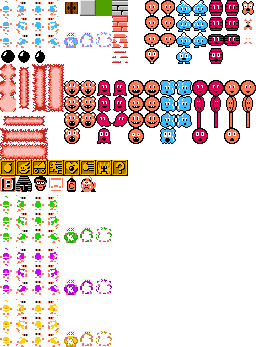
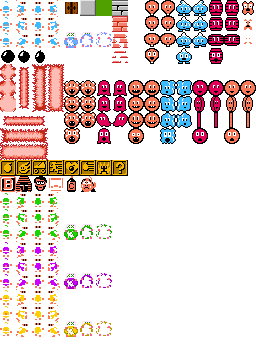
added sprites for the rest of the players

Changed region(s): [[0.0, 0.5476, 0.4375, 1.0]]

diff --git a/src/com/bomberman/graphics/Sprite.java b/src/com/bomberman/graphics/Sprite.java
@@ -8,16 +8,15 @@ public class Sprite {
 	
 	private static final int TILE_PIXELS = 16;
 	
-	
 	public static Image brick = SPRITE_SHEET.image.getSubimage(7 * TILE_PIXELS, 0, 16, 16);
 	public static Image wall = SPRITE_SHEET.image.getSubimage(5 * TILE_PIXELS, 0, 16, 16);
-	
 	
 	/*
 	|--------------------------------------------------------------------------
 	| Player Sprites
 	|--------------------------------------------------------------------------
 	 */
+	
 	public static Image player_blue_up = SPRITE_SHEET.image.getSubimage(0, 0, 12, 16);
 	public static Image player_blue_down = SPRITE_SHEET.image.getSubimage(2 * TILE_PIXELS, 0, 12, 15);
 	public static Image player_blue_left = SPRITE_SHEET.image.getSubimage(3 * TILE_PIXELS, 0, 10, 15);
@@ -60,12 +59,54 @@ public class Sprite {
 	public static Image player_green_dead2 = SPRITE_SHEET.image.getSubimage(5 * TILE_PIXELS, 14 * TILE_PIXELS, 13, 15);
 	public static Image player_green_dead3 = SPRITE_SHEET.image.getSubimage(6 * TILE_PIXELS, 14 * TILE_PIXELS, 16, 16);
 	
+	public static Image player_violet_up = SPRITE_SHEET.image.getSubimage(0, 15 * TILE_PIXELS, 12, 16);
+	public static Image player_violet_down = SPRITE_SHEET.image.getSubimage(2 * TILE_PIXELS, 15 * TILE_PIXELS, 12, 15);
+	public static Image player_violet_left = SPRITE_SHEET.image.getSubimage(3 * TILE_PIXELS, 15 * TILE_PIXELS, 10, 15);
+	public static Image player_violet_right = SPRITE_SHEET.image.getSubimage(1 * TILE_PIXELS, 15 * TILE_PIXELS, 10, 16);
+	
+	public static Image player_violet_up_1 = SPRITE_SHEET.image.getSubimage(0 * TILE_PIXELS, 16 * TILE_PIXELS, 12, 16);
+	public static Image player_violet_up_2 = SPRITE_SHEET.image.getSubimage(0 * TILE_PIXELS, 17 * TILE_PIXELS, 12, 15);
+	
+	public static Image player_violet_down_1 = SPRITE_SHEET.image.getSubimage(2 * TILE_PIXELS, 16 * TILE_PIXELS, 12, 15);
+	public static Image player_violet_down_2 = SPRITE_SHEET.image.getSubimage(2 * TILE_PIXELS, 17 * TILE_PIXELS, 12, 16);
+	
+	public static Image player_violet_left_1 = SPRITE_SHEET.image.getSubimage(3 * TILE_PIXELS, 16 * TILE_PIXELS, 11, 16);
+	public static Image player_violet_left_2 = SPRITE_SHEET.image.getSubimage(3 * TILE_PIXELS, 17 * TILE_PIXELS, 12 ,16);
+	
+	public static Image player_violet_right_1 = SPRITE_SHEET.image.getSubimage(1 * TILE_PIXELS, 16 * TILE_PIXELS, 11, 16);
+	public static Image player_violet_right_2 = SPRITE_SHEET.image.getSubimage(1 * TILE_PIXELS, 17 * TILE_PIXELS, 12, 16);
+	
+	public static Image player_violet_dead1 = SPRITE_SHEET.image.getSubimage(4  * TILE_PIXELS, 17 * TILE_PIXELS, 14, 16);
+	public static Image player_violet_dead2 = SPRITE_SHEET.image.getSubimage(5 * TILE_PIXELS, 17 * TILE_PIXELS, 13, 15);
+	public static Image player_violet_dead3 = SPRITE_SHEET.image.getSubimage(6 * TILE_PIXELS, 17 * TILE_PIXELS, 16, 16);
+	
+	public static Image player_yellow_up = SPRITE_SHEET.image.getSubimage(0, 18 * TILE_PIXELS, 12, 16);
+	public static Image player_yellow_down = SPRITE_SHEET.image.getSubimage(2 * TILE_PIXELS, 18 * TILE_PIXELS, 12, 15);
+	public static Image player_yellow_left = SPRITE_SHEET.image.getSubimage(3 * TILE_PIXELS, 18 * TILE_PIXELS, 10, 15);
+	public static Image player_yellow_right = SPRITE_SHEET.image.getSubimage(1 * TILE_PIXELS, 18 * TILE_PIXELS, 10, 16);
+	
+	public static Image player_yellow_up_1 = SPRITE_SHEET.image.getSubimage(0 * TILE_PIXELS, 19 * TILE_PIXELS, 12, 16);
+	public static Image player_yellow_up_2 = SPRITE_SHEET.image.getSubimage(0 * TILE_PIXELS, 20 * TILE_PIXELS, 12, 15);
+	
+	public static Image player_yellow_down_1 = SPRITE_SHEET.image.getSubimage(2 * TILE_PIXELS, 19 * TILE_PIXELS, 12, 15);
+	public static Image player_yellow_down_2 = SPRITE_SHEET.image.getSubimage(2 * TILE_PIXELS, 20 * TILE_PIXELS, 12, 16);
+	
+	public static Image player_yellow_left_1 = SPRITE_SHEET.image.getSubimage(3 * TILE_PIXELS, 19 * TILE_PIXELS, 11, 16);
+	public static Image player_yellow_left_2 = SPRITE_SHEET.image.getSubimage(3 * TILE_PIXELS, 20 * TILE_PIXELS, 12 ,16);
+	
+	public static Image player_yellow_right_1 = SPRITE_SHEET.image.getSubimage(1 * TILE_PIXELS, 19 * TILE_PIXELS, 11, 16);
+	public static Image player_yellow_right_2 = SPRITE_SHEET.image.getSubimage(1 * TILE_PIXELS, 20 * TILE_PIXELS, 12, 16);
+	
+	public static Image player_yellow_dead1 = SPRITE_SHEET.image.getSubimage(4  * TILE_PIXELS, 20 * TILE_PIXELS, 14, 16);
+	public static Image player_yellow_dead2 = SPRITE_SHEET.image.getSubimage(5 * TILE_PIXELS, 20 * TILE_PIXELS, 13, 15);
+	public static Image player_yellow_dead3 = SPRITE_SHEET.image.getSubimage(6 * TILE_PIXELS, 20 * TILE_PIXELS, 16, 16);
 	
 	/*
 	|--------------------------------------------------------------------------
 	| Brick Explosion
 	|--------------------------------------------------------------------------
 	 */
+	
 	public static Image brick_exploded = SPRITE_SHEET.image.getSubimage(7 * TILE_PIXELS, 1 * TILE_PIXELS, 16, 16);
 	public static Image brick_exploded1 = SPRITE_SHEET.image.getSubimage(7 * TILE_PIXELS, 2 * TILE_PIXELS, 16, 16);
 	public static Image brick_exploded2 = SPRITE_SHEET.image.getSubimage(7 * TILE_PIXELS, 3 * TILE_PIXELS, 16, 16);
@@ -75,6 +116,7 @@ public class Sprite {
 	| Bomb Sprites
 	|--------------------------------------------------------------------------
 	 */
+	
 	public static Image bomb = SPRITE_SHEET.image.getSubimage(0, 3 * TILE_PIXELS, 16, 16);
 	public static Image bomb_1 = SPRITE_SHEET.image.getSubimage(1 * TILE_PIXELS, 3 * TILE_PIXELS, 16, 16);
 	public static Image bomb_2 = SPRITE_SHEET.image.getSubimage(2 * TILE_PIXELS, 3 * TILE_PIXELS, 16, 16);

diff --git a/src/com/bomberman/graphics/PlayerSpriteManager.java b/src/com/bomberman/graphics/PlayerSpriteManager.java
@@ -1,0 +1,82 @@
+package com.bomberman.graphics;
+
+import java.awt.Image;
+
+public class PlayerSpriteManager {
+
+	private int playerId;
+	
+	private static final PlayerSpriteManager instance = null;
+	
+	private PlayerSpriteManager(int playerId) {
+		this.playerId = playerId;
+	}
+	
+	public static PlayerSpriteManager getInstance(int playerId) {
+		if(instance == null) {
+			return new PlayerSpriteManager(playerId);
+		}
+		return instance;
+	}
+	
+	public Image getPlayerSpriteUp(int animation) {
+		switch (this.playerId) {
+		case 1:
+			return animation == 0 ? Sprite.player_blue_up : animation == 1 ? Sprite.player_blue_up_1 : Sprite.player_blue_up_2;
+		case 2:
+			return animation == 0 ? Sprite.player_green_up : animation == 1 ? Sprite.player_green_up_1 : Sprite.player_green_up_2;
+		case 3:
+			return animation == 0 ? Sprite.player_yellow_up : animation == 1 ? Sprite.player_yellow_up_1 : Sprite.player_yellow_up_2;
+		case 4:
+			return animation == 0 ? Sprite.player_violet_up : animation == 1 ? Sprite.player_violet_up_1 : Sprite.player_violet_up_2;
+		default:
+			return animation == 0 ? Sprite.player_blue_up : animation == 1 ? Sprite.player_blue_up_1 : Sprite.player_blue_up_2;
+		}
+	}
+
+	public Image getPlayerSpriteDown(int animation) {
+		switch (this.playerId) {
+		case 1:
+			return animation == 0 ? Sprite.player_blue_down : animation == 1 ? Sprite.player_blue_down_1 : Sprite.player_blue_down_2;
+		case 2:
+			return animation == 0 ? Sprite.player_green_down : animation == 1 ? Sprite.player_green_down_1 : Sprite.player_green_down_2;
+		case 3:
+			return animation == 0 ? Sprite.player_yellow_down : animation == 1 ? Sprite.player_yellow_down_1 : Sprite.player_yellow_down_2;
+		case 4:
+			return animation == 0 ? Sprite.player_violet_down : animation == 1 ? Sprite.player_violet_down_1 : Sprite.player_violet_down_2;
+		default:
+			return animation == 0 ? Sprite.player_blue_down : animation == 1 ? Sprite.player_blue_down_1 : Sprite.player_blue_down_2;
+		}
+	}
+	
+	public Image getPlayerSpriteRight(int animation) {
+		switch (this.playerId) {
+		case 1:
+			return animation == 0 ? Sprite.player_blue_right : animation == 1 ? Sprite.player_blue_right_1 : Sprite.player_blue_right_2;
+		case 2:
+			return animation == 0 ? Sprite.player_green_right : animation == 1 ? Sprite.player_green_right_1 : Sprite.player_green_right_2;
+		case 3:
+			return animation == 0 ? Sprite.player_yellow_right : animation == 1 ? Sprite.player_yellow_right_1 : Sprite.player_yellow_right_2;
+		case 4:
+			return animation == 0 ? Sprite.player_violet_right : animation == 1 ? Sprite.player_violet_right_1 : Sprite.player_violet_right_2;
+		default:
+			return animation == 0 ? Sprite.player_blue_right : animation == 1 ? Sprite.player_blue_right_1 : Sprite.player_blue_right_2;
+		}
+	}  
+	
+	public Image getPlayerSpriteLeft(int animation) {
+		switch (this.playerId) {
+		case 1:
+			return animation == 0 ? Sprite.player_blue_left : animation == 1 ? Sprite.player_blue_left_1 : Sprite.player_blue_left_2;
+		case 2:
+			return animation == 0 ? Sprite.player_green_left : animation == 1 ? Sprite.player_green_left_1 : Sprite.player_green_left_2;
+		case 3:
+			return animation == 0 ? Sprite.player_yellow_left : animation == 1 ? Sprite.player_yellow_left_1 : Sprite.player_yellow_left_2;
+		case 4:
+			return animation == 0 ? Sprite.player_violet_left : animation == 1 ? Sprite.player_violet_left_1 : Sprite.player_violet_left_2;
+		default:
+			return animation == 0 ? Sprite.player_blue_left : animation == 1 ? Sprite.player_blue_left_1 : Sprite.player_blue_left_2;
+		}
+	}  
+
+}

diff --git a/src/com/bomberman/dto/PlayerDto.java b/src/com/bomberman/dto/PlayerDto.java
@@ -3,6 +3,7 @@ package com.bomberman.dto;
 import java.awt.Image;
 
 import com.bomberman.entities.Player;
+import com.bomberman.graphics.PlayerSpriteManager;
 import com.bomberman.graphics.Sprite;
 
 public class PlayerDto {
@@ -59,28 +60,28 @@ public class PlayerDto {
 		switch(this.movementStatusDto.getDirection()) {
 		case UP:
 			if(this.movementStatusDto.isMoving()) {
-				return Sprite.movingSprite(Sprite.player_blue_up, Sprite.player_blue_up_1, Sprite.player_blue_up_2, 
-						this.movementStatusDto.getAnimateCount(), 5);
+				return Sprite.movingSprite(PlayerSpriteManager.getInstance(id).getPlayerSpriteUp(0), PlayerSpriteManager.getInstance(id).getPlayerSpriteUp(1),
+						PlayerSpriteManager.getInstance(id).getPlayerSpriteUp(2), this.movementStatusDto.getAnimateCount(), 5);
 			}
-			return Sprite.player_blue_up;
+			return PlayerSpriteManager.getInstance(id).getPlayerSpriteUp(0);
 		case RIGHT:
 			if(this.movementStatusDto.isMoving()) {
-				return Sprite.movingSprite(Sprite.player_blue_right, Sprite.player_blue_right_1, Sprite.player_blue_right_2, 
-						this.movementStatusDto.getAnimateCount(), 5);
+				return Sprite.movingSprite(PlayerSpriteManager.getInstance(id).getPlayerSpriteRight(0), PlayerSpriteManager.getInstance(id).getPlayerSpriteRight(1),
+						PlayerSpriteManager.getInstance(id).getPlayerSpriteRight(0), this.movementStatusDto.getAnimateCount(), 5);
 			}
-			return Sprite.player_blue_right;
+			return PlayerSpriteManager.getInstance(id).getPlayerSpriteRight(0);
 		case DOWN:
 			if(this.movementStatusDto.isMoving()) {
-				return Sprite.movingSprite(Sprite.player_blue_down, Sprite.player_blue_down_1, Sprite.player_blue_down_2, 
-						this.movementStatusDto.getAnimateCount(), 5);
+				return Sprite.movingSprite(PlayerSpriteManager.getInstance(id).getPlayerSpriteDown(0), PlayerSpriteManager.getInstance(id).getPlayerSpriteDown(1),
+						PlayerSpriteManager.getInstance(id).getPlayerSpriteDown(2), this.movementStatusDto.getAnimateCount(), 5);
 			}
-			return Sprite.player_blue_down;
+			return PlayerSpriteManager.getInstance(id).getPlayerSpriteDown(0);
 		case LEFT:
 			if(this.movementStatusDto.isMoving()) {
-				return Sprite.movingSprite(Sprite.player_blue_left, Sprite.player_blue_left_1, Sprite.player_blue_left_2, 
-						this.movementStatusDto.getAnimateCount(), 5);
+				return Sprite.movingSprite(PlayerSpriteManager.getInstance(id).getPlayerSpriteLeft(0), PlayerSpriteManager.getInstance(id).getPlayerSpriteLeft(1),
+						PlayerSpriteManager.getInstance(id).getPlayerSpriteLeft(2), this.movementStatusDto.getAnimateCount(), 5);
 			}
-			return Sprite.player_blue_left;
+			return PlayerSpriteManager.getInstance(id).getPlayerSpriteLeft(0);
 		default:
 			return null;
 		}

diff --git a/src/com/bomberman/client/Client.java b/src/com/bomberman/client/Client.java
@@ -46,7 +46,6 @@ public class Client {
 			public void run(){
 		    	try {
 		    		while(conected) {
-		    			System.out.println("Thread Running");
 		    			String message = dataInputStream.readUTF();
 		    			receiveMessage(message);
 		    		}
@@ -69,9 +68,7 @@ public class Client {
 	}
 	
 	private void receiveMessage(String mapMessage) {
-		System.out.println("Mensage recibido en el cliente");
 		MapMessage mapMessageObject = gson.fromJson(mapMessage, MapMessage.class);
-
 		listener.messageReceived(mapMessageObject);
 	}
 	

diff --git a/src/com/bomberman/server/ScoreBoard.java b/src/com/bomberman/server/ScoreBoard.java
@@ -55,7 +55,7 @@ public class ScoreBoard extends Observable implements GameActionPerformed {
 		Player player = null;
 		switch(playersCount) {
 		case 0:
-			player = new Player(40, 40, 1);
+			player = new Player(40, 40, 3);
 			this.map.addPlayer(player);
 			break;
 		case 1:
